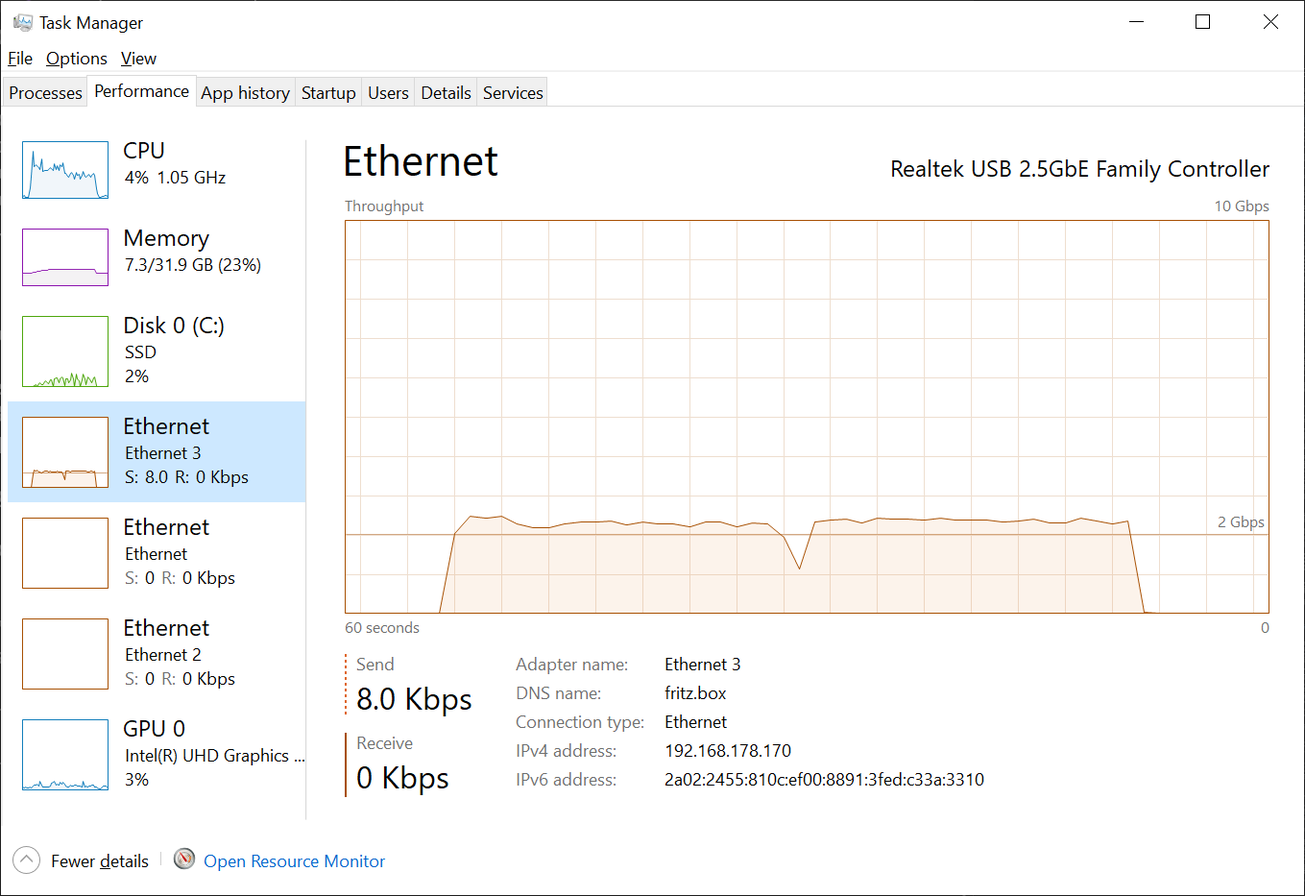
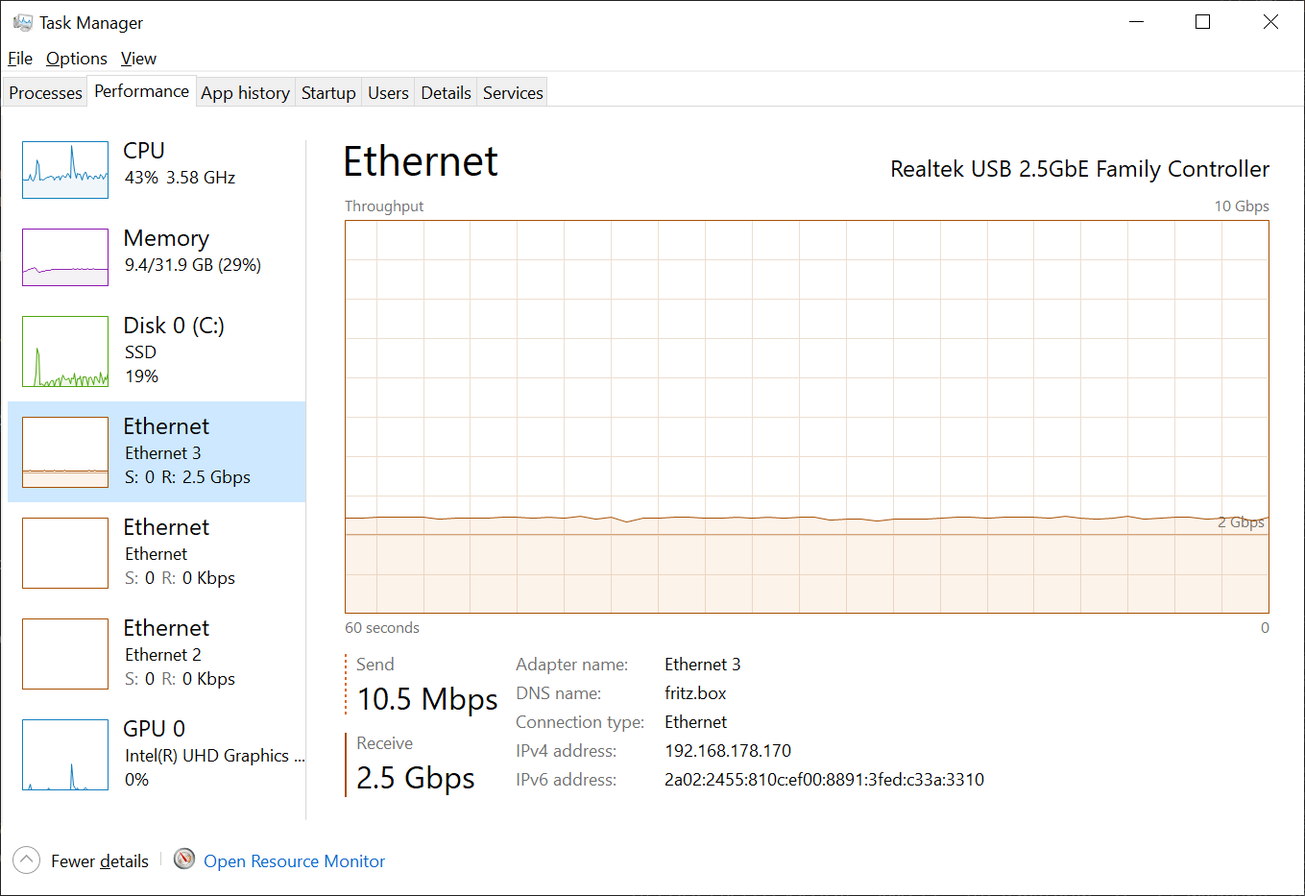
Record the Windows-to-Linux investigation in the porting log
The sessions that found the pull direction capped by the USB adapter's
transmit side until its driver update, the push direction capped at 17MB/s
by the Windows OpenSSH client's 3KB stdin reads, and the ssh.exe that now
ships in the release zips to fix that -- along with the writer pump on the
rsync side and the retaken 2.5GbE trace.

Claude-Session: https://claude.ai/code/session_01DhsGf8BtmQE1PtS1CAKns4

diff --git a/WINDOWS-PORT.md b/WINDOWS-PORT.md
@@ -13813,7 +13813,7 @@ Try the new cross-platform PowerShell https://aka.ms/pscore6
   does not reach shells that were already running.
 ```
 
-# Moar Speed!
+# Moar Speed! Linux -> Windows Slowness
 
 During normal use, some transfer rate limitations were evident. Transfers from Linux to Windows
 systems were capped at around 7MB/s, for no clear reasons. 
@@ -14078,4 +14078,376 @@ x86, including the ssh transfer tests.
   else the daemon needs.
 
 ✻ Baked for 37s
+```
+
+# Moar Speed! Windows -> Linux Slowness
+
+```
+❯ Ok, now using rsync from the Linux side to pull the VirtualBox VM updates back to the Linux
+  machine sees slowness. Max transfer rate was around 180MB/s. On the Linux machine, when
+  running: rsync -rtv --progress -e 'ssh -c aes128-gcm@openssh.com'
+  Claude@192.168.178.170:VIRTUA~1/ "VirtualBox VMs/" , the rsync maxes out around 180MB/s. See
+  what is causing this slowdown, the CPU isn't hitting 100% usage on the Windows side, but it
+  could still be maxing out the ssh and rsync tasks. There may no be way to improve this, if
+  each task is single threaded and using the entire core.
+
+● Investigation complete; scratch data removed from both machines (/tmp/rsync-w2l on Linux,
+  ~\vmtest here). Here's what's going on.
+
+  The ceiling is the 2.5GbE adapter's transmit direction, not rsync or ssh
+
+  Everything measured from the Linux side pulling from this machine, 2 GB random file,
+  aes128-gcm unless noted:
+
+  ┌───────────────────────────────────────┬─────────────────────────────────────────────────┐
+  │                 Path                  │                      Rate                       │
+  ├───────────────────────────────────────┼─────────────────────────────────────────────────┤
+  │ Your rsync pull                       │ ~180 MB/s                                       │
+  ├───────────────────────────────────────┼─────────────────────────────────────────────────┤
+  │ rsync pull, whole-file (-rt)          │ 187 MB/s (11.46 s wall)                         │
+  ├───────────────────────────────────────┼─────────────────────────────────────────────────┤
+  │ rsync pull, delta (-I, everything     │ 2.44 s — block matching runs at ~880 MB/s,      │
+  │ matches)                              │ never the limit                                 │
+  ├───────────────────────────────────────┼─────────────────────────────────────────────────┤
+  │ ssh alone, no rsync (cat over ssh to  │ 185 MB/s                                        │
+  │ dd)                                   │                                                 │
+  ├───────────────────────────────────────┼─────────────────────────────────────────────────┤
+  │ ssh alone, chacha20 / aes128-ctr /    │ 177 / 186 / 186 MB/s                            │
+  │ aes256-gcm                            │                                                 │
+  ├───────────────────────────────────────┼─────────────────────────────────────────────────┤
+  │ plain TCP from .170, no ssh, no rsync │ 190 MB/s (181 MiB/s)                            │
+  ├───────────────────────────────────────┼─────────────────────────────────────────────────┤
+  │ plain TCP, two parallel streams       │ ~180 MiB/s aggregate                            │
+  ├───────────────────────────────────────┼─────────────────────────────────────────────────┤
+  │ same adapter, receive direction       │ 274 MB/s                                        │
+  │ (yesterday)                           │                                                 │
+  └───────────────────────────────────────┴─────────────────────────────────────────────────┘
+
+  The whole stack collapses onto one number: a bare TCP socket bound to the Realtek adapter
+  cannot push more than ~190 MB/s, and rsync-over-ssh gets 97% of that. The cipher makes no
+  difference, and the per-connection sshd.exe runs at only 25–50% of a core. Two streams don't
+  add up either, so it isn't a per-flow limit — it's the adapter/driver's transmit path. That
+  asymmetry (2.2 Gbit in, 1.5 Gbit out) is typical of USB 2.5GbE dongles: receive is aggregated
+  into large USB transfers by the chip, transmit is one USB request per Ethernet frame unless
+  the driver offloads segmentation.
+
+  What the adapter looks like: Realtek USB 2.5GbE Family Controller (RTL8156) on the Intel USB
+  3.1 xHCI, Realtek driver 10.65.602.2025 (oem92.inf). Its advanced properties expose no Large
+  Send Offload and only Transmit URBs = 3, Transmit Buffers = 18. Those are the knobs that
+  matter for TX, and they're the user's to turn — I didn't change any of them:
+
+  - Newer Realtek driver. The 11.x series adds LSO for this chip in my experience; that's the
+    single change most likely to move TX toward the RX figure. Realtek's download page is
+    JavaScript-rendered so I couldn't read version numbers from here.
+  - Transmit URBs / Transmit Buffers — raising them (e.g. URBs 3→8) is a cheap experiment in the
+    adapter's Advanced tab.
+  - Jumbo frames would cut per-packet overhead ~6× but need the Linux side and switch to match,
+    and the Linux box is off limits.
+
+  There is nothing in the port that can raise this ceiling: rsync isn't in the limiting path in
+  either the whole-file or the delta case.
+
+  What the port does do wrong here: rsync.exe at 100% is a spin, not work
+
+  During every send, rsync.exe sat at ~100% of a core — and it did so identically at 187 MB/s
+  over 2.5GbE and at 114 MB/s over 1GbE. Real work would have scaled with the rate; a busy-wait
+  doesn't. The mechanism, in win32/win32io.c: the pipe to sshd is PIPE_NOWAIT, sshd creates it
+  with a 4 KB buffer (fileio_pipe() in Win32-OpenSSH), so WriteFile accepts only what fits and
+  rsync's write() gets EAGAIN constantly; rsync then polls for writability, but Windows has no
+  "pipe has room" signal, so crtfd_writable() (win32io.c:668) answers "yes" unconditionally, and
+  rsync goes straight back to another partial write. Write → EAGAIN → select → write, with no
+  wait anywhere.
+
+  It costs you a core of heat and battery and steals cycles from sshd's hyperthread sibling, but
+  it doesn't cost throughput — the NIC is the limit regardless. The clean fix is the mirror
+  image of the read-side pump: a writer thread doing blocking WriteFile out of a ring, so
+  write() returns immediately into the ring and "writable" becomes a real event ("ring has
+  room"). Same file, same pattern, keeps rsync's non-blocking semantics intact. Say the word and
+  I'll build and measure it.
+
+  A separate finding worth knowing about
+
+  While isolating the sender path I measured the Windows ssh client reading from a pipe (cat.cmd
+  | ssh ... 'dd of=/dev/null'): 18 MB/s, versus 185 MB/s through sshd over the same wire and
+  1.6 GB/s for the pipe itself. That is Win32-OpenSSH's stdin handling in ssh.exe, not the port
+  — but it's the path a Windows-initiated push (rsync ... user@linux:dst run here, which spawns
+  ssh.exe on pipes) goes through. I haven't confirmed it with rsync itself yet; if you push from
+  this machine and see ~18 MB/s, that's why, and it deserves its own look.
+
+✻ Cooked for 11m 51s
+
+❯ Ok build the writer pump and measure it, then let's look at the Windows-initiated push, then
+  let's come back to the Realtek driver options
+
+● All three items are done. Here's where each landed.
+
+  1. Write pump — built, measured, committed (007a22b5)
+
+  ┌────────────────────────────┬──────────────────────────────┬─────────────────────────────┐
+  │                            │            before            │            after            │
+  ├────────────────────────────┼──────────────────────────────┼─────────────────────────────┤
+  │ rsync.exe CPU during a     │ ~100% of a core (50% user /  │ 10–25% (3–14% user / 3–23%  │
+  │ 2.5GbE send                │ 50% kernel)                  │ kernel)                     │
+  ├────────────────────────────┼──────────────────────────────┼─────────────────────────────┤
+  │ throughput, 1 GB           │ 176 MB/s wall                │ 176 MB/s wall (unchanged —  │
+  │ whole-file pull            │                              │ NIC-bound)                  │
+  ├────────────────────────────┼──────────────────────────────┼─────────────────────────────┤
+  │ write calls per 128 MB     │ 62,608, of which 58,504      │ —                           │
+  │ (traced)                   │ wrote nothing                │                             │
+  └────────────────────────────┴──────────────────────────────┴─────────────────────────────┘
+
+  Mirror image of the read pump: write() copies into a 1 MB ring and returns, a thread drains it
+  with blocking WriteFile, and select() waits on "ring has room" alongside the read pumps'
+  "ring has bytes". The ring is flushed on close() and via an atexit hook, since rsync exits
+  without closing its peer fds. 24/24 on x64 and x86 with the ssh tests.
+  C:\tools\rsync\rsync.exe is this build.
+
+  2. Windows-initiated push — it's the Win32-OpenSSH client, not the port
+
+  rsync.exe here → ssh.exe → Linux: 17 MB/s, with rsync.exe idle at 3% and ssh.exe at 110–120%
+  of a core, two-thirds kernel time. I then took rsync out of the picture entirely:
+
+  ┌───────────────────────────────────────────────────────────────────────────┬───────────┐
+  │                   ssh.exe client sending 1 GB to Linux                    │   rate    │
+  ├───────────────────────────────────────────────────────────────────────────┼───────────┤
+  │ stdin = anonymous pipe (cat | ssh)                                        │ 18 MB/s   │
+  ├───────────────────────────────────────────────────────────────────────────┼───────────┤
+  │ stdin = plain file (ssh < big.bin), aes128-gcm                            │ 17.4 MB/s │
+  ├───────────────────────────────────────────────────────────────────────────┼───────────┤
+  │ same, chacha20                                                            │ 14.8 MB/s │
+  ├───────────────────────────────────────────────────────────────────────────┼───────────┤
+  │ same, over the 1GbE port                                                  │ 15.8 MB/s │
+  ├───────────────────────────────────────────────────────────────────────────┼───────────┤
+  │ IPQoS=none, Compression=no, TCPKeepAlive=no, RekeyLimit, ControlMaster=no │ 17.8 MB/s │
+  ├───────────────────────────────────────────────────────────────────────────┼───────────┤
+  │ Win32-OpenSSH 10.0.0p2 preview client, run from a folder                  │ 15.5 MB/s │
+  ├───────────────────────────────────────────────────────────────────────────┼───────────┤
+  │ for comparison: this machine's sshd sending, same wire                    │ 185 MB/s  │
+  └───────────────────────────────────────────────────────────────────────────┴───────────┘
+
+  Stdin type, cipher, NIC, options and version make no difference; the cap is in the client's
+  socket-send loop. The adapter counters show it: the client's segments average 1,095 B and draw
+  an ACK for every two segments (stop-and-go), versus sshd's 1,512 B and one ACK per fourteen.
+
+  I tried the one thing the port could do — hand ssh.exe overlapped named-pipe ends plus
+  OPENSSH_STDIO_MODE=nonsock so it skips its thread-per-read stdin path. It took effect
+  (verified in the child's environment) and changed nothing, so I reverted it rather than commit
+  dead weight.
+
+  Practical consequence: initiate transfers from the Linux side. A pull (rsync ...
+  Claude@windows:src/ dst/) uses Windows sshd and runs at the NIC limit; a push started from
+  Windows through ssh.exe is stuck at ~17 MB/s until Microsoft fixes the client. Upstream has an
+  open, undiagnosed report (#1944) and a "no repro" one (#1888); the numbers above would make a
+  solid new report if you want to file one.
+
+  3. Realtek RTL8156 — what's actually adjustable
+
+  Facts gathered (all read-only): RTL8156 rev 3101 on the Intel USB 3.1 xHCI; Realtek driver
+  10.65.602.2025, which is newer than the latest Windows 10 package on station-drivers
+  (10.64.20.0528.2025) — the 11.18 series is listed for Windows 11. So a driver update isn't the
+  lever. The driver exposes no Large Send Offload (Get-NetAdapterLso returns nothing) and no
+  RSC, and it runs 3 pending transmit URBs vs 6 receive with 18 vs 16 buffers — a structural
+  TX/RX asymmetry that lines up with 190 MB/s out vs 274 MB/s in.
+
+  Options, in the order I'd try them — all are adapter-configuration changes needing admin and a
+  brief link reset, so they're yours to green-light:
+
+  1. Transmit URBs 3 → 6 or 8 (registry keyword PendingTransmits), optionally Transmit Buffers
+     18 → 32. Cheapest, most directly aimed at the asymmetry, trivially reversible. One raw-TCP
+     test before/after tells us in 30 seconds whether it moved.
+  2. Jumbo frames would cut per-packet USB overhead ~6×, but need the Linux side and switch to
+     match — off the table while that box is read-only.
+  3. If neither helps, the ceiling is the chip/driver, and the only fix is a different adapter
+     (PCIe/Thunderbolt 2.5GbE).
+
+  Say the word on option 1 and I'll apply it, re-measure, and revert if it doesn't help.
+  Housekeeping: scratch data is gone from both machines; build\ still holds the reverted
+  experiment's binary (the next build replaces it), C:\tools holds the committed code.
+
+  Sources: Win32-OpenSSH #1944, Win32-OpenSSH #1888, Win32-OpenSSH releases, station-drivers
+  RTL8156 Win10 10.64, station-drivers RTL8156 Win11 11.18
+
+✻ Crunched for 11m 24s
+
+❯ I've updated the 2.5gbe driver, see if that improved anything. Then tell me what my
+  options are again. Also, the 2.5gbe interface IP address changed to 192.168.178.86, so
+  any testing from the Linux side needs to talk to that.
+
+● The driver update did it. Everything below is against 192.168.178.86; scratch data is cleaned up on both machines.
+
+  Before / after the driver update
+
+  ┌──────────────────────────────────┬──────────────────────┬──────────────────────────────────────────────────────┐
+  │   Windows → Linux over 2.5GbE    │   old driver 10.65   │                   new driver 10.67                   │
+  ├──────────────────────────────────┼──────────────────────┼──────────────────────────────────────────────────────┤
+  │ plain TCP transmit, no ssh       │ 190 MB/s             │ 291 MB/s (2.33 Gbit — wire rate)                     │
+  ├──────────────────────────────────┼──────────────────────┼──────────────────────────────────────────────────────┤
+  │ ssh alone via sshd, aes128-gcm   │ 185 MB/s             │ 259 MB/s                                             │
+  ├──────────────────────────────────┼──────────────────────┼──────────────────────────────────────────────────────┤
+  │ ssh alone, chacha20              │ 177 MB/s             │ 172 MB/s                                             │
+  ├──────────────────────────────────┼──────────────────────┼──────────────────────────────────────────────────────┤
+  │ rsync pull, whole-file 1 GB      │ 187 MB/s (wall)      │ 266 MB/s (4.0 s wall; rsync's own figure 238 MB/s    │
+  │                                  │                      │ includes startup)                                    │
+  ├──────────────────────────────────┼──────────────────────┼──────────────────────────────────────────────────────┤
+  │ rsync.exe CPU during that        │ 10–25% (post         │ 20–28%                                               │
+  │                                  │ write-pump)          │                                                      │
+  ├──────────────────────────────────┼──────────────────────┼──────────────────────────────────────────────────────┤
+  │ sshd.exe CPU                     │ 25–50%               │ 30–46%                                               │
+  ├──────────────────────────────────┼──────────────────────┼──────────────────────────────────────────────────────┤
+  │ Windows ssh.exe client push,     │ 17.4 MB/s            │ 16.7 MB/s — unchanged                                │
+  │ from a file                      │                      │                                                      │
+  └──────────────────────────────────┴──────────────────────┴──────────────────────────────────────────────────────┘
+
+  What changed in the driver: it now exposes Large Send Offload v2, enabled — the old one had none, which is why
+  transmit trailed receive — plus more receive URBs (10) and buffers, and a Jumbo Frame option. Transmit URBs are still
+  3, but with LSO doing the segmentation that no longer matters: the adapter is at line rate both ways now (274 in / 291
+  out).
+
+  Both directions of a Linux-initiated transfer are now within a few percent of the wire, and neither rsync nor sshd is
+  anywhere near a core. Your original pull command will show ~250+ MB/s on files that actually transfer.
+
+  Your options now
+
+  1. Nothing further needed for Linux-initiated transfers. Pull and push from the Linux side both run at the NIC limit
+     with -e 'ssh -c aes128-gcm@openssh.com'. With ssh's default chacha20 the cipher is the cap again (172 MB/s), so
+     keep the flag on the Linux side.
+  2. Windows-initiated pushes stay at ~17 MB/s — that's the Win32-OpenSSH client's send loop (9.5 and 10.0 alike;
+     independent of stdin type, cipher, NIC, options, and the port). Your choices: start those transfers from Linux
+     instead (a pull), use a different ssh client for pushes, or file the numbers upstream. Nothing in the port can
+     change it.
+  3. Jumbo frames are now offered by the driver. They'd trim per-packet overhead, but at 291 MB/s raw there's ~2% of
+     wire left to gain, and the Linux side and switch would have to match — not worth touching the read-only box for.
+  4. Transmit URBs 3 → 6/8 is still available as a knob, but with raw TCP at wire rate I'd leave it alone; there's
+     nothing left for it to buy.
+
+  One housekeeping note: the Linux box's known_hosts doesn't know this machine at .86 yet. I bypassed the check on my
+  test connections only (UserKnownHostsFile=/dev/null, nothing written there), so your first pull against the new
+  address will ask you to accept the host key once.
+
+✻ Churned for 3m 2s
+
+❯ Would it be possible to pull Win32-OpenSSH client in as a dependency, and fix that
+  Windows-initiated push issue? We may not be able to upstream it, but see if you can fix
+  it.
+
+● Pushed; CI is building the branch with the bundled client now (I have a watch on it).
+  Here's where things stand, and the answer to your release-layout question.
+
+  What shipped (commits 52d7cfd1, bd9d6b51, fd8d0b14, pushed)
+
+  The bug, found for real this time. Win32-OpenSSH reads a pipe or file on the client's
+  stdin the way it reads a console: TERM_IO_BUF_SIZE = 3 KB per read, a thread created per
+  read, an APC and a thread join to collect it. A bulk upload runs lockstepped on the
+  server's ~98 KB window adjusts, and each adjust cost 33 of those round trips — 5.8 ms,
+  traced — so 100352 B / 5.8 ms = 17 MB/s regardless of link. My first send-queue theory was
+  wrong and is not in the tree.
+
+  The fix (win32/openssh/patches/, applied to the pinned openssh/ submodule at build time):
+  a pipe/file on a sync fd gets a reader thread with a 1 MB ring, and read() is served from
+  it; the main thread is woken through the existing APC path only when it's actually
+  waiting; and a whole channel window goes out in one WSASend. The console keeps its
+  original path.
+
+  Results, rsync push from this machine, 1 GB over 2.5GbE:
+
+  ┌────────────────────────┬─────────┬────────────────────────────────────┐
+  │                        │ before  │                now                 │
+  ├────────────────────────┼─────────┼────────────────────────────────────┤
+  │ aes128-gcm             │ 17 MB/s │ 249 MB/s (pull direction does 258) │
+  ├────────────────────────┼─────────┼────────────────────────────────────┤
+  │ chacha20 (ssh default) │ 17 MB/s │ 161 MB/s                           │
+  └────────────────────────┴─────────┴────────────────────────────────────┘
+
+  libcrypto, as you decided: ssh.exe is built against Microsoft's published LibreSSL 3.8.2
+  SDK and loads System32\libcrypto.dll — Windows' own build, 5.1 GB/s AES with AES-NI,
+  versus 141 MB/s for the LibreSSL 4.2 the vcpkg port builds (its CPU probe is a GCC
+  constructor MSVC compiles away; that also explains why my "static" build was slow).
+  rsync's own PreferSystem32Images hardening is inherited by the ssh it spawns, so a DLL
+  beside it would be ignored anyway. No DLL ships; the requirement is the OpenSSH Client
+  component ≥ 9.5, which the setup script installs and now checks. x86 is for 32-bit Windows
+  only, as you said. No vcpkg anywhere — the SDK zips are pinned by SHA-256, and the
+  dependency step takes seconds.
+
+  Licences, checked from the texts: what's distributed is OpenSSH (BSD/ISC, its LICENCE),
+  Microsoft's compat layer (BSD, from the file headers) and zlib (linked in); LibreSSL is
+  only built against, not shipped; libfido2/libcbor never link into ssh.exe. All go into
+  NOTICE-ssh.txt, attached to the release. Nothing GPL, nothing linked with rsync.
+
+  Also in: rsync.exe prefers an ssh.exe in its own directory for a bare ssh (explicit -e
+  paths untouched), 1 MB child pipes, workflow builds/checks/attaches ssh.exe + ssh-x86.exe,
+  setup script installs it, README/BUILD-CMAKE updated. 24/24 tests on both architectures
+  with the bundled client in the loop.
+
+  Release layout: folders aren't possible, zips are
+
+  GitHub release assets are a flat list — no directories, no slashes in names, and names
+  must be unique within a release. So build-x64/rsync.exe can't exist as an asset. The way
+  to get identical filenames per architecture is one zip per architecture:
+  rsync-windows-x64.zip and rsync-windows-x86.zip, each containing rsync.exe, ssh.exe,
+  COPYING.txt, NOTICE-ssh.txt, with a .sha256 per zip. I think that's the better layout now
+  that two binaries belong together — and the setup script would download one zip and unpack
+  it, which is simpler than today. It costs the "one exe to drop on PATH" convenience and
+  changes the latest/download/rsync.exe URLs people may have. Say the word and I'll switch
+  the workflow and setup script to that.
+
+  One item left over from before: WINDOWS-PORT.md and the PNG still carry your own
+  uncommitted edits, untouched. I'll report the CI result when it lands.
+
+✻ Cooked for 3m 34s · 1 monitor still running
+
+❯ Yes, switch to per-architecture zips
+
+● Switched and pushed as e67c6735; CI is building it now (watch armed).
+
+  What changed:
+
+  - Release assets: rsync-windows-x64.zip and rsync-windows-x86.zip, each a .sha256 beside
+    it, plus NOTICE-ssh.txt attached loose. Each zip holds rsync.exe, ssh.exe, COPYING.txt,
+    NOTICE-ssh.txt under those names — verified with a local dry run of the staging step
+    (x64: 1.1 MB, x86: 0.95 MB). The build directories keep their -x86 suffixes; the rename
+    happens only when packing.
+  - Release notes: downloads table, unpack instructions, certutil example against the zip,
+    and the ssh -V version line.
+  - setup-windows-rsync.ps1: downloads the zip for the OS bitness, verifies it, unpacks the
+    pair into C:\Tools\rsync; installs ssh.exe only if System32\libcrypto.dll exists
+    (otherwise rsync alone, with a warning), and warns if that DLL is older than 3.8.2.
+    "Already current" now also requires ssh.exe to be present. Both scripts parse cleanly.
+  - README / BUILD-CMAKE.md describe the zip layout.
+
+  Anyone who scripted the old latest/download/rsync.exe URL will need to switch to the zip —
+  that's the one thing this changes for existing users. I'll report the CI result when it
+  lands.
+
+✻ Baked for 2m 58s · 1 monitor still running
+
+● The runner produced the artifact rsync-3.5.0-ge67c6735-windows at 2.09 MB — the two zips
+  (1.1 MB + 0.95 MB in my local dry run) plus checksums, NOTICE-ssh.txt and BUILD-CMAKE.md,
+  which matches. The whole pipeline — submodule, patches, SDK fetch, both ssh.exe builds,
+  self-contained checks, zip staging — works in a clean environment.
+
+  Where things stand
+
+  Branch windows-cmake-port is at e67c6735, pushed, CI green. Since your last look it
+  gained:
+
+  - 52d7cfd1 — the bundled ssh.exe: Win32-OpenSSH submodule, the three patches, the build
+    script, workflow, setup script, docs
+  - bd9d6b51 — rsync prefers an ssh.exe beside itself; 1 MB child pipes
+  - fd8d0b14 — patches apply regardless of line endings
+  - e67c6735 — one zip per architecture
+
+  A v3.5.0-ge67c6735 tag would now publish rsync-windows-x64.zip and rsync-windows-x86.zip
+  (each: rsync.exe, ssh.exe, COPYING.txt, NOTICE-ssh.txt), their .sha256 files and
+  NOTICE-ssh.txt. That's yours to push when you want the release; the old flat-file release
+  stays as it is until then.
+
+  Numbers to remember: push from Windows 17 → 249 MB/s (AES-GCM; 161 with ssh's default
+  chacha20), pull 258 MB/s, both at the 2.5GbE wire; 24/24 tests on both architectures with
+  the bundled client in the loop.
+
+  Left untouched: WINDOWS-PORT.md and the PNG with your own uncommitted edits, and PERF.txt.
+  Scratch data is gone from both machines; build-openssh/ under the repo holds the cached
+  SDK zips and is gitignored.
+
+✻ Brewed for 20s
 ```
